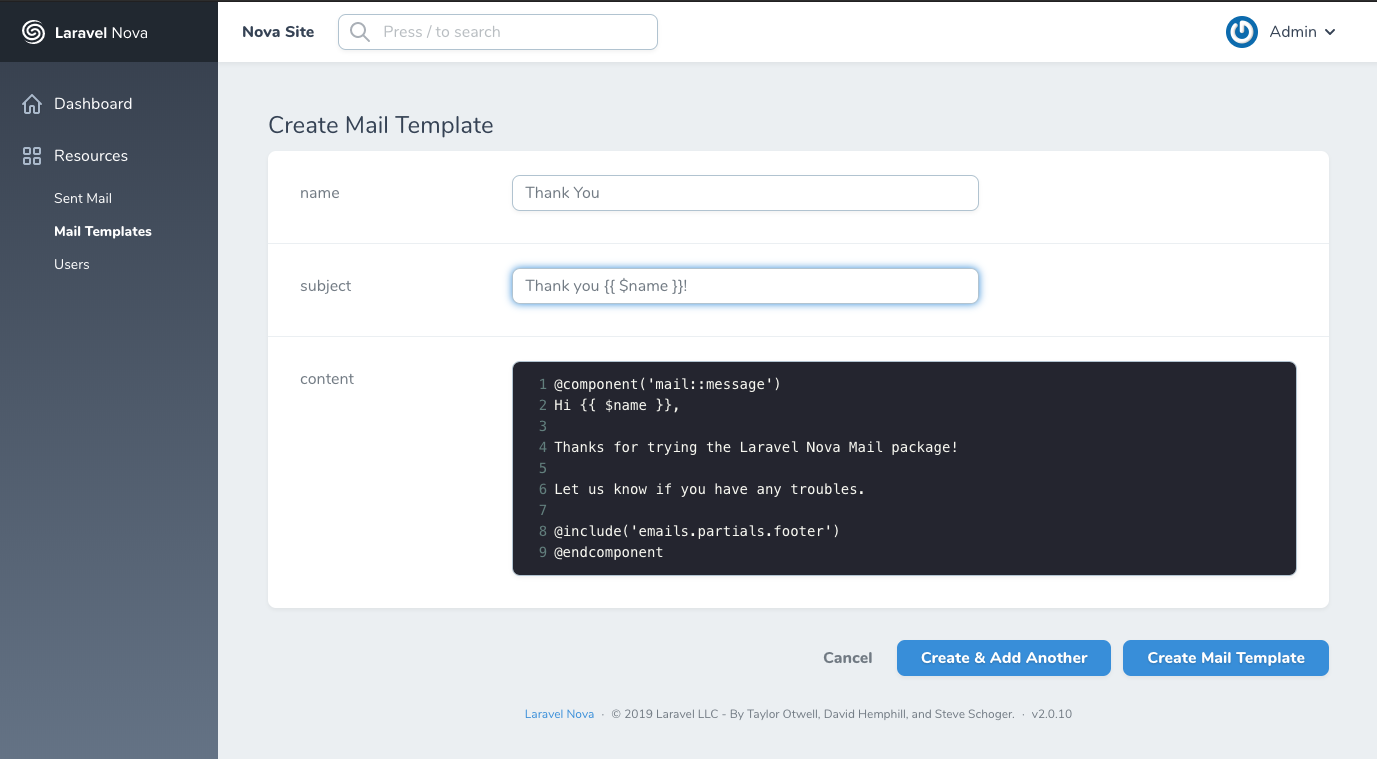
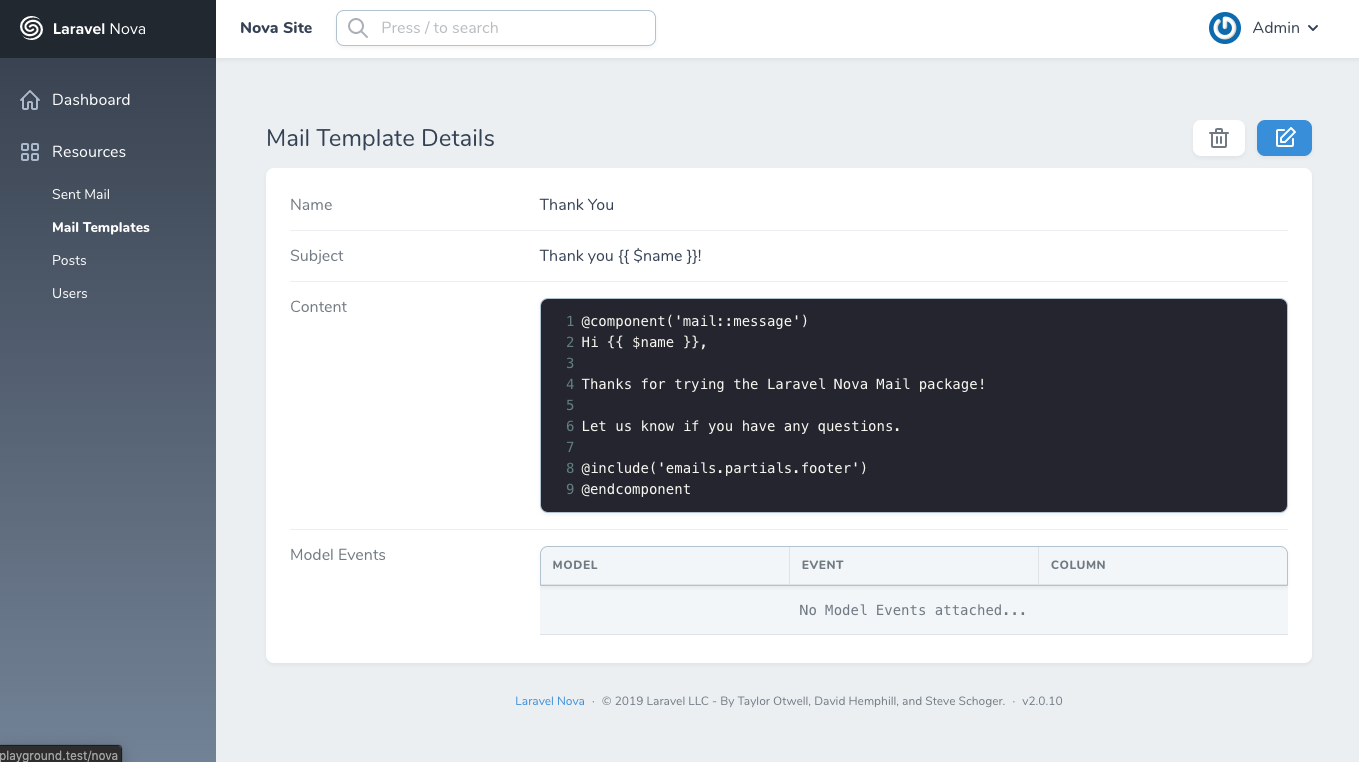
readme and changelog updates

diff --git a/README.md b/README.md
@@ -1,16 +1,18 @@
 ![banner](https://raw.githubusercontent.com/kirschbaum-development/nova-mail/master/screenshots/banner.png)
-# An action based mail package for Nova apps
+# Nova Mail
 
 [![Latest Version on Packagist](https://img.shields.io/packagist/v/kirschbaum-development/nova-mail.svg?style=flat-square)](https://packagist.org/packages/kirschbaum-development/nova-mail)
 [![Total Downloads](https://img.shields.io/packagist/dt/kirschbaum-development/nova-mail.svg?style=flat-square)](https://packagist.org/packages/kirschbaum-development/nova-mail)
 
-This package contains a Nova action that provides a mail sending form for any resource to easily send email.
+This package contains a Nova action that provides a mail sending form for any resource to easily send email. It also includes automated mail sending based on Eloquent Model events/attribute changes.
 
 ![screenshot of the send mail action modal](https://raw.githubusercontent.com/kirschbaum-development/nova-mail/master/screenshots/send-mail-modal-empty.png)
 
 ![screenshot of the send mail action modal with template selected](https://raw.githubusercontent.com/kirschbaum-development/nova-mail/master/screenshots/send-mail-modal-template-selected.png)
 
 ![screenshot of sent email in mailtrap](https://raw.githubusercontent.com/kirschbaum-development/nova-mail/master/screenshots/sent-mail.png)
+
+![screenshot of mail template model events](https://raw.githubusercontent.com/kirschbaum-development/nova-mail/master/screenshots/mail-template-model-events.png)
 
 ## Requirements
 
@@ -91,6 +93,18 @@ class User extends Resource
 ```
 
 Now you can send emails from the action called "Send Mail" on your resource!
+
+### Model Based Mail Sending
+
+A powerful feature related to Mail Templates is the capability to associate eloquent model events to your pre-defined templates.
+
+For example you could create a Mail Template with a Model Event that monitors an 'active' column on your `User` model that when toggled sends an email to the user letting them know the current status of their account:
+
+![screenshot of the account status mail template](https://raw.githubusercontent.com/kirschbaum-development/nova-mail/master/screenshots/model-event-account-status-change.png)
+
+You can even have separate models for both "on" an "off"!
+
+![screenshot of the account status with value mail template](https://raw.githubusercontent.com/kirschbaum-development/nova-mail/master/screenshots/model-event-account-status-change.png)
 
 ### Mail Template Usage/Caveats
 

diff --git a/CHANGELOG.md b/CHANGELOG.md
@@ -2,6 +2,19 @@
 
 All notable changes to `nova-mail` will be documented in this file
 
-## 1.0.0 - TBD
+## 0.1.0
 
 - initial release
+- action based mail sending with re-usable templates and sent mail tracking
+
+## 1.0.0
+
+- (new): Send pre-defined templates based on Model Events
+    - updated config
+- cleaned up Vue structure
+
+## Planned
+
+- Tests
+- Mail scheduling
+- Additional tracking to help prevent duplicate mail sending
